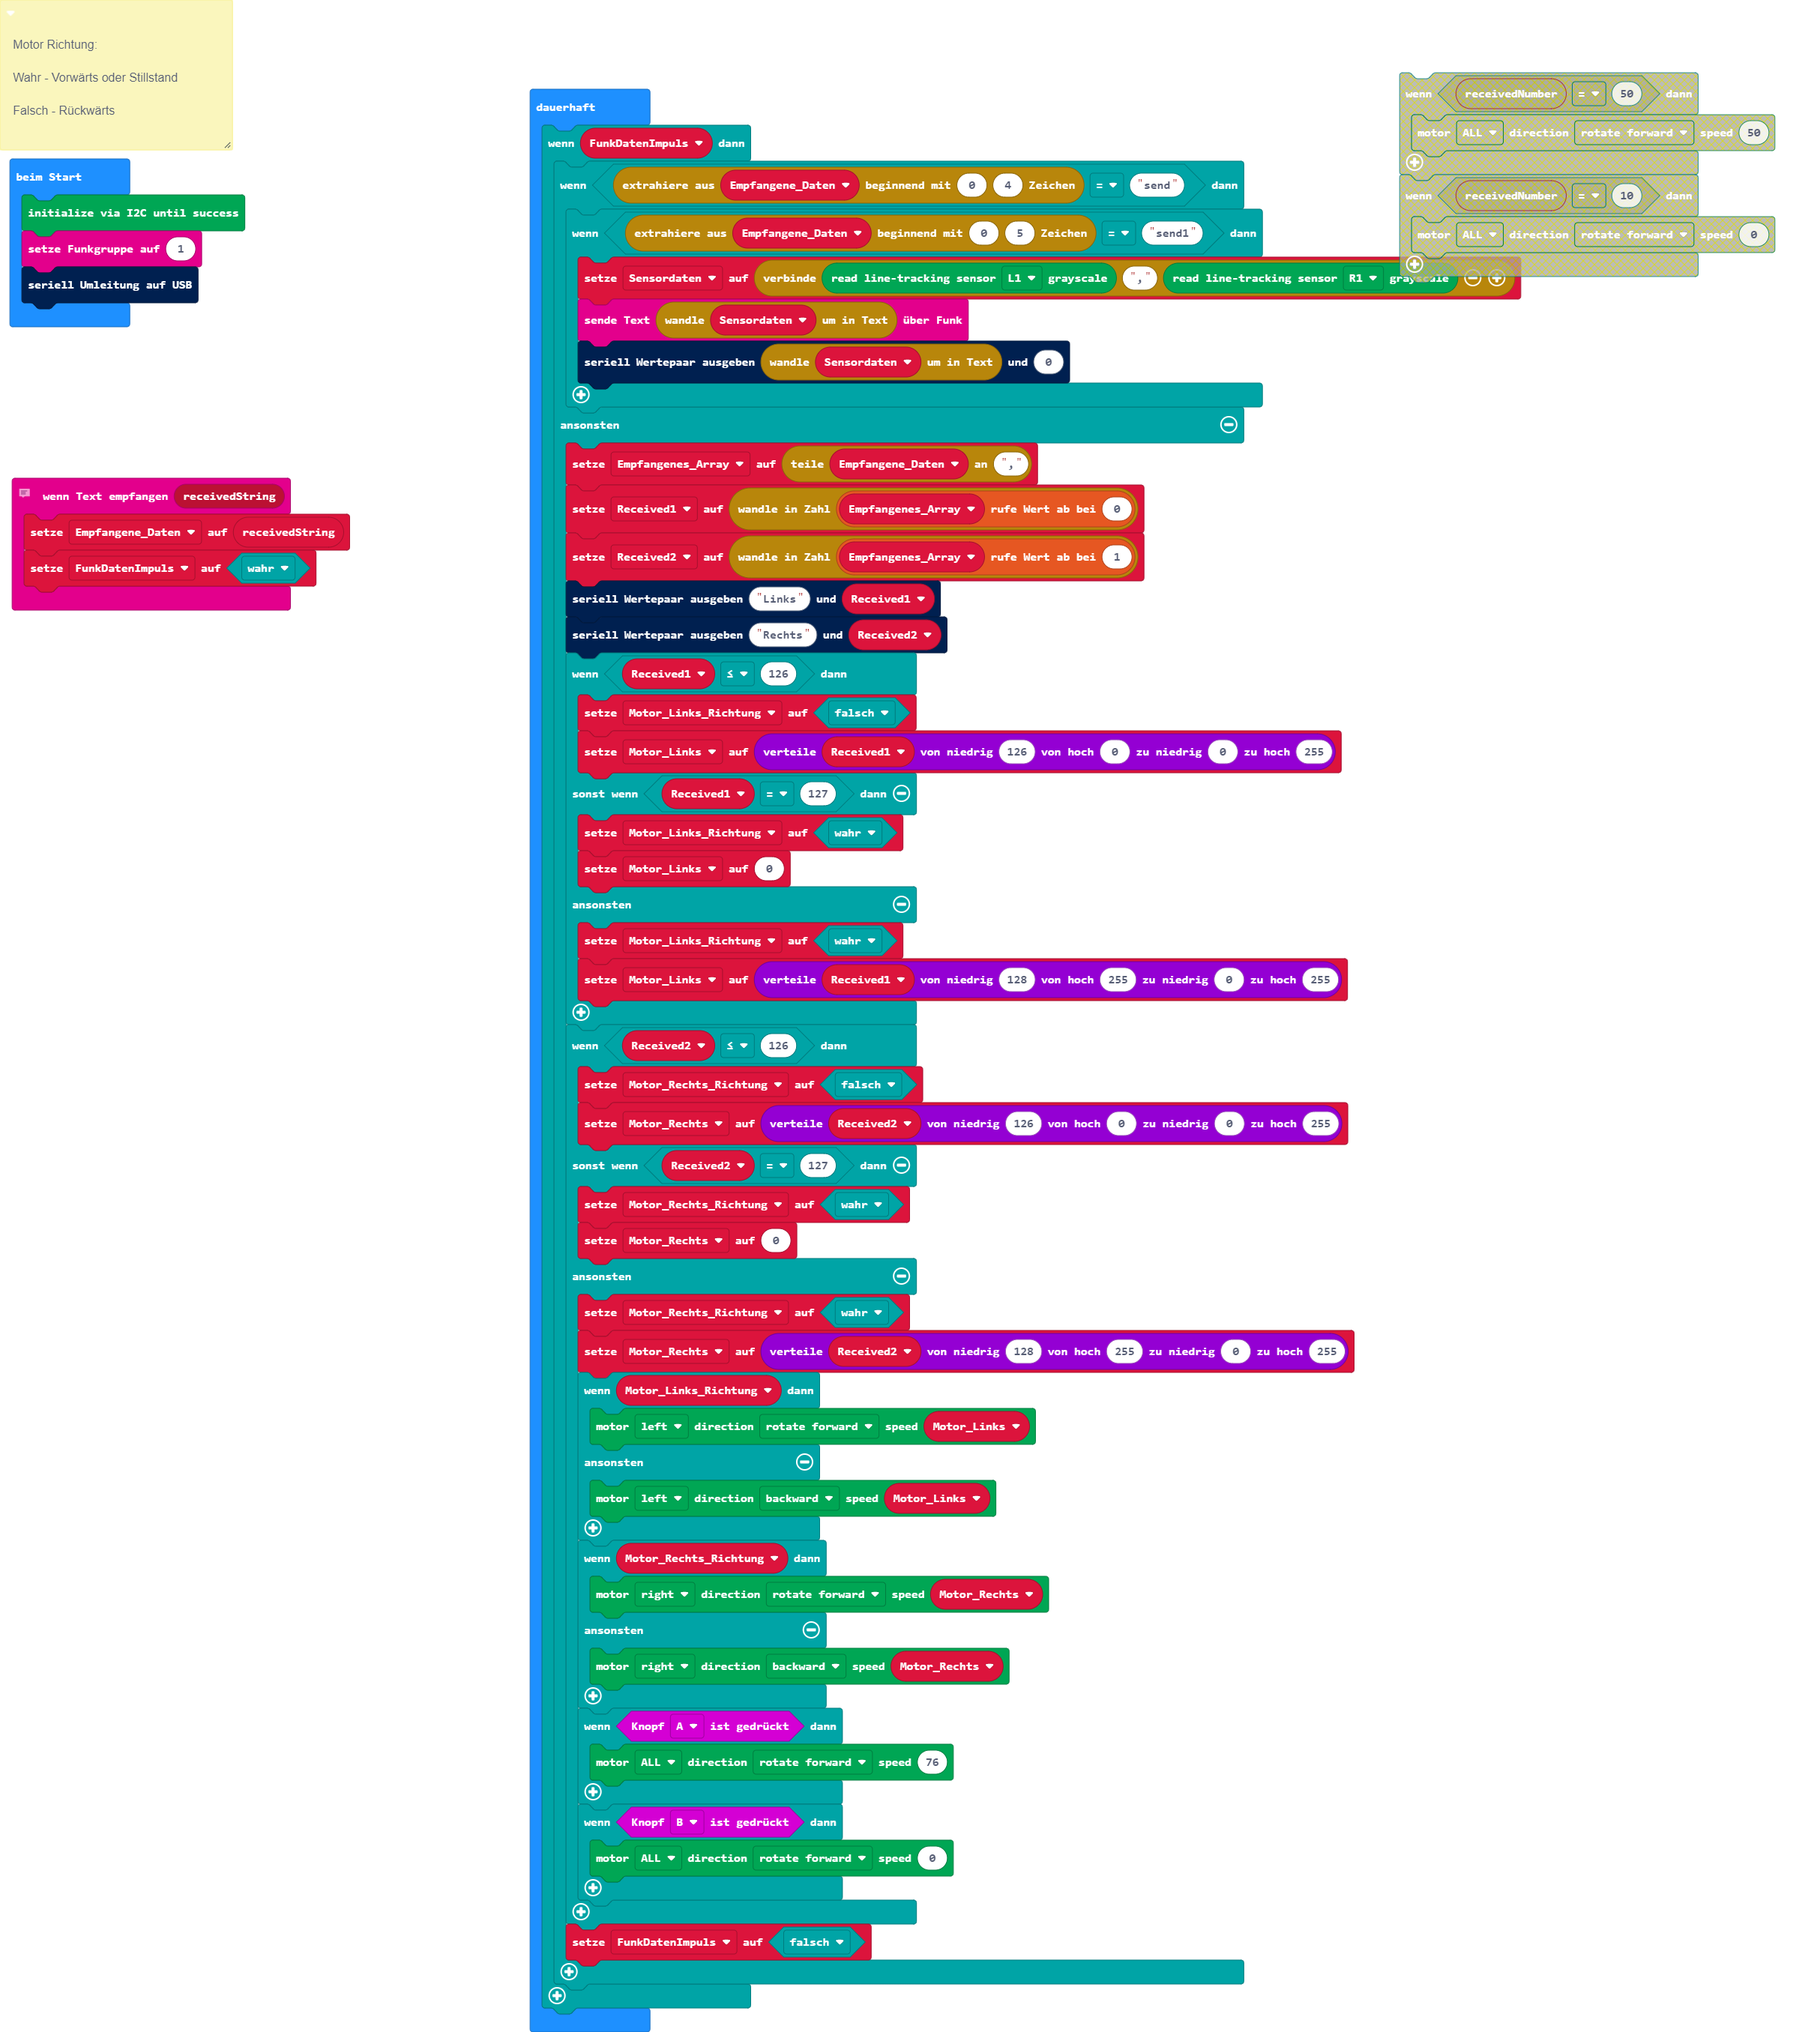
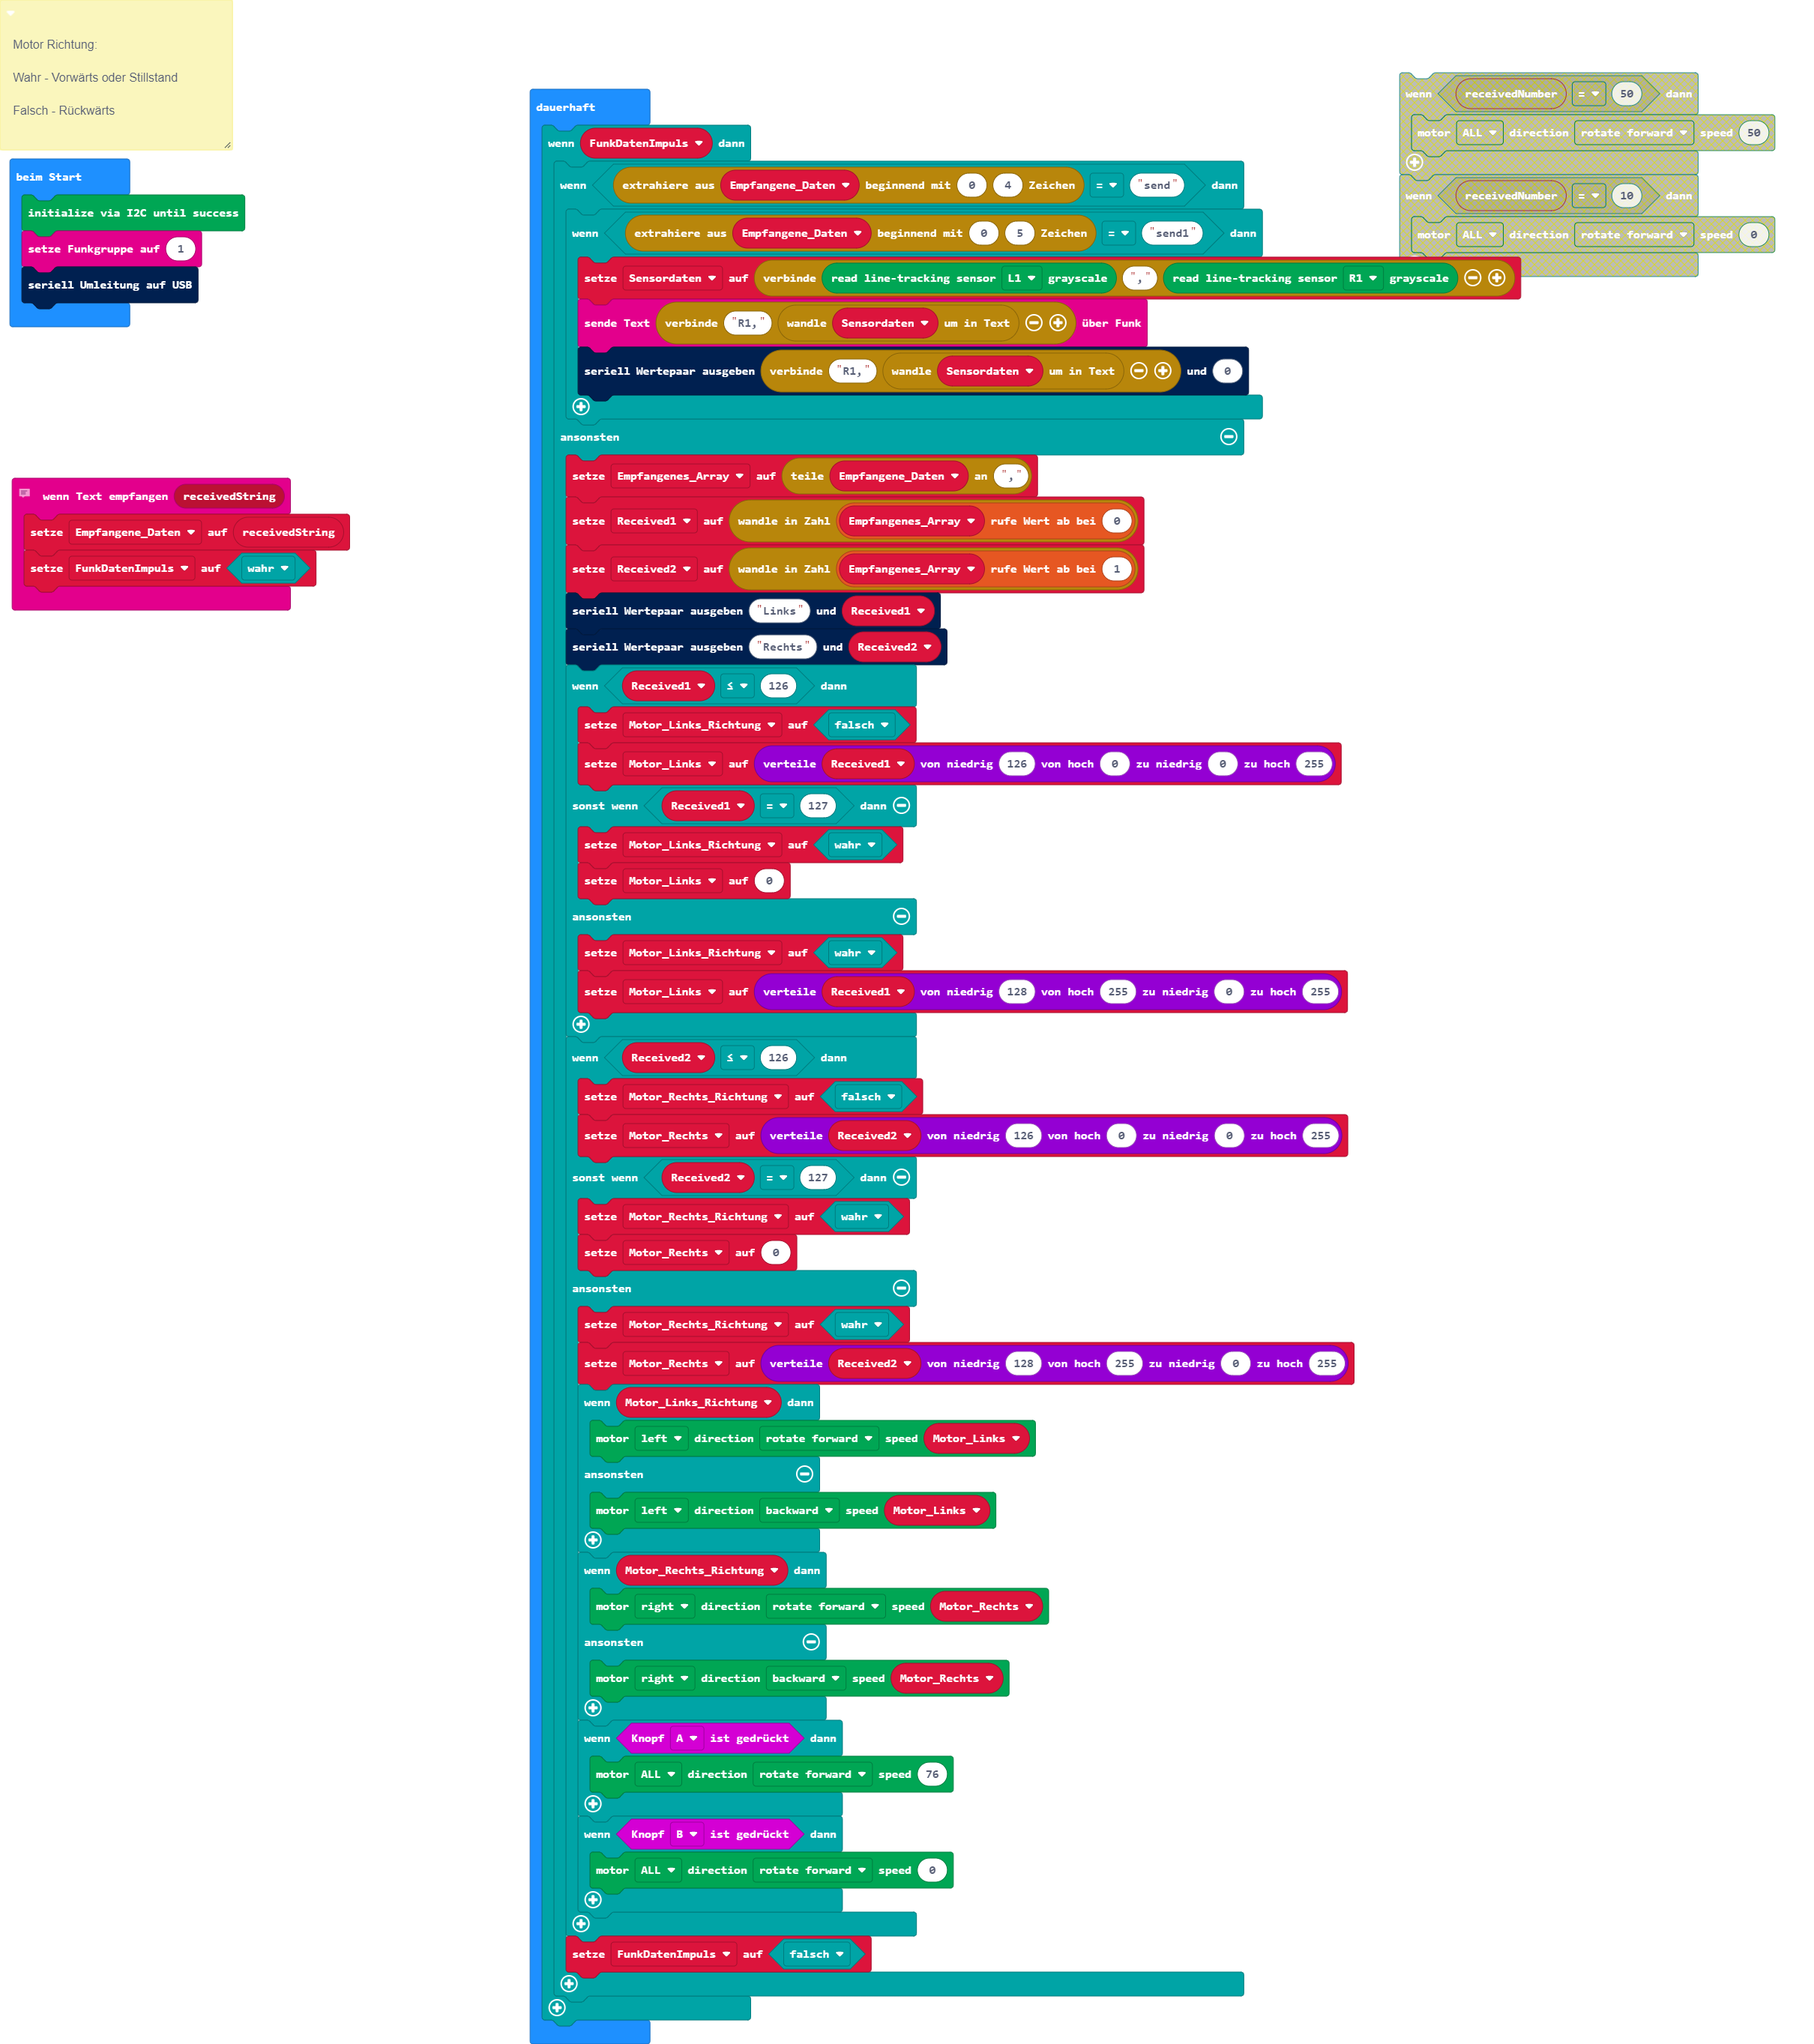
Aktualisiere main.blocks, main.ts

diff --git a/main.ts b/main.ts
@@ -28,8 +28,8 @@ basic.forever(function () {
         if (Empfangene_Daten.substr(0, 4) == "send") {
             if (Empfangene_Daten.substr(0, 5) == "send1") {
                 Sensordaten = "" + DFRobotMaqueenPlus.readPatrolVoltage(Patrol.L1) + "," + DFRobotMaqueenPlus.readPatrolVoltage(Patrol.R1)
-                radio.sendString(convertToText(Sensordaten))
-                serial.writeValue(convertToText(Sensordaten), 0)
+                radio.sendString("R1," + convertToText(Sensordaten))
+                serial.writeValue("R1," + convertToText(Sensordaten), 0)
             }
         } else {
             Empfangenes_Array = Empfangene_Daten.split(",")
